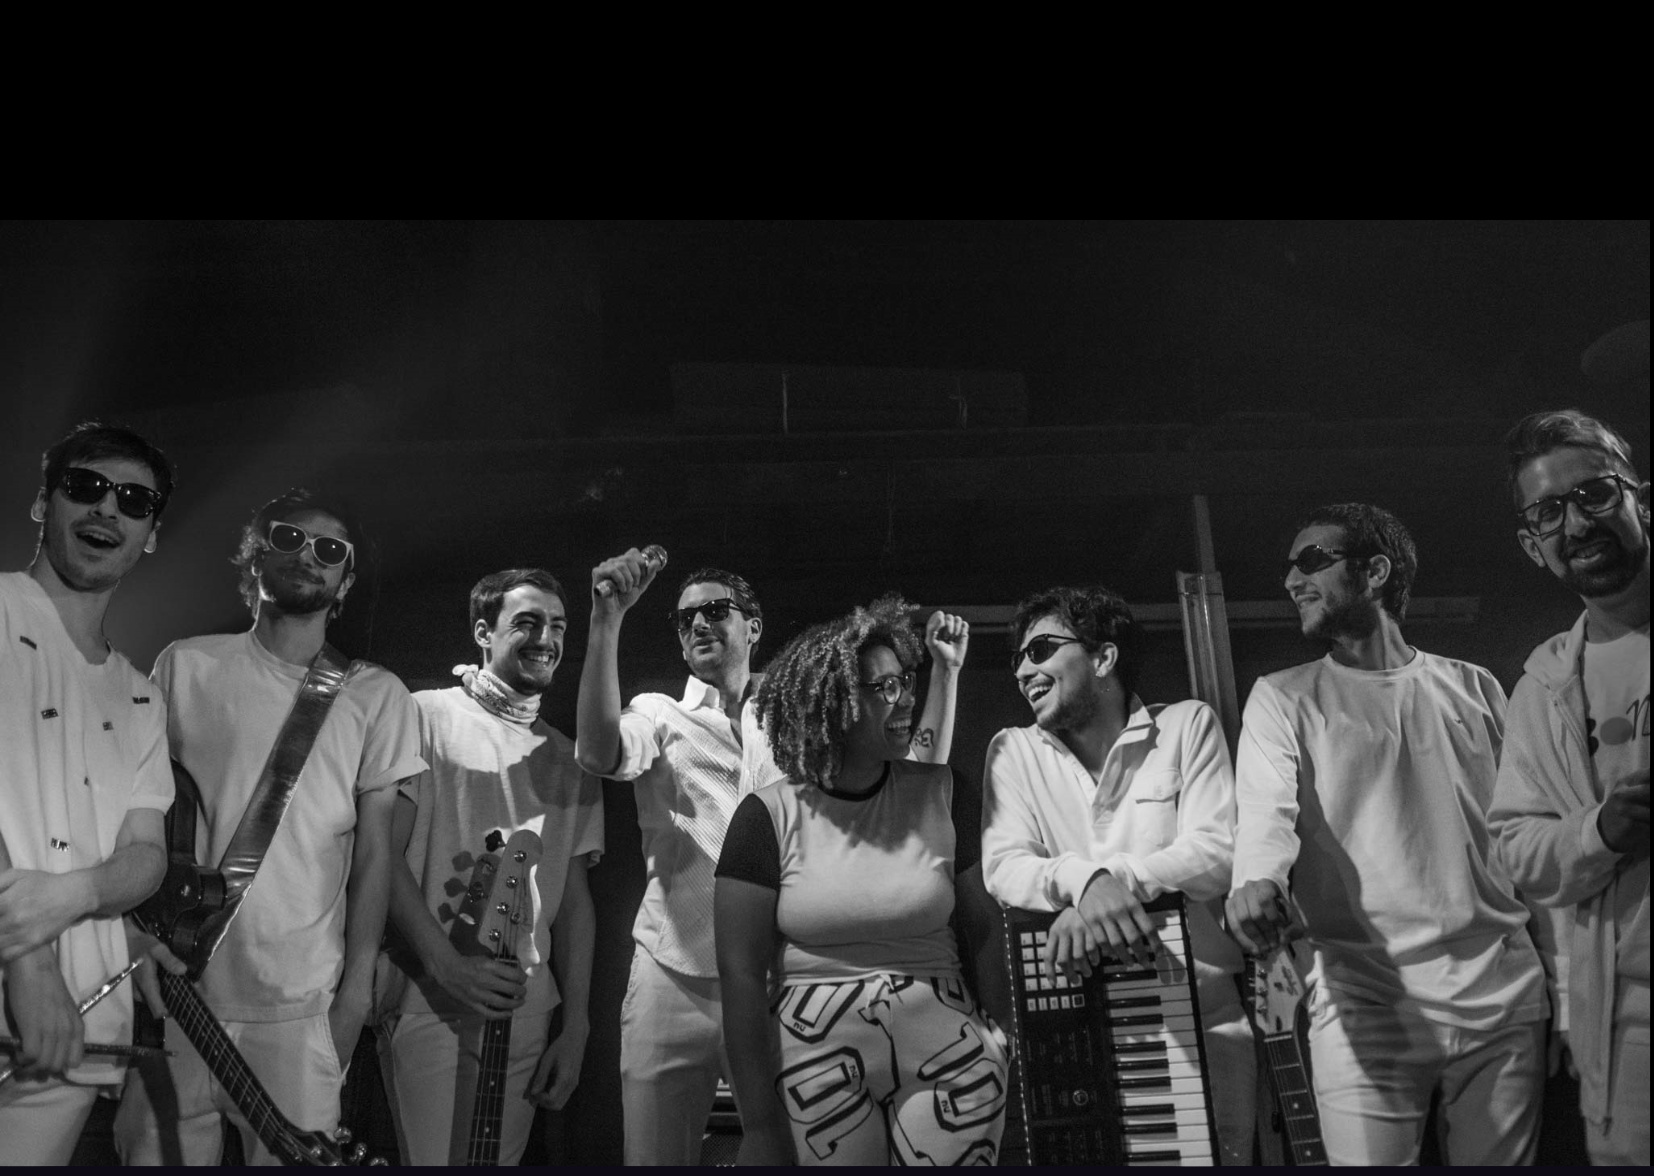
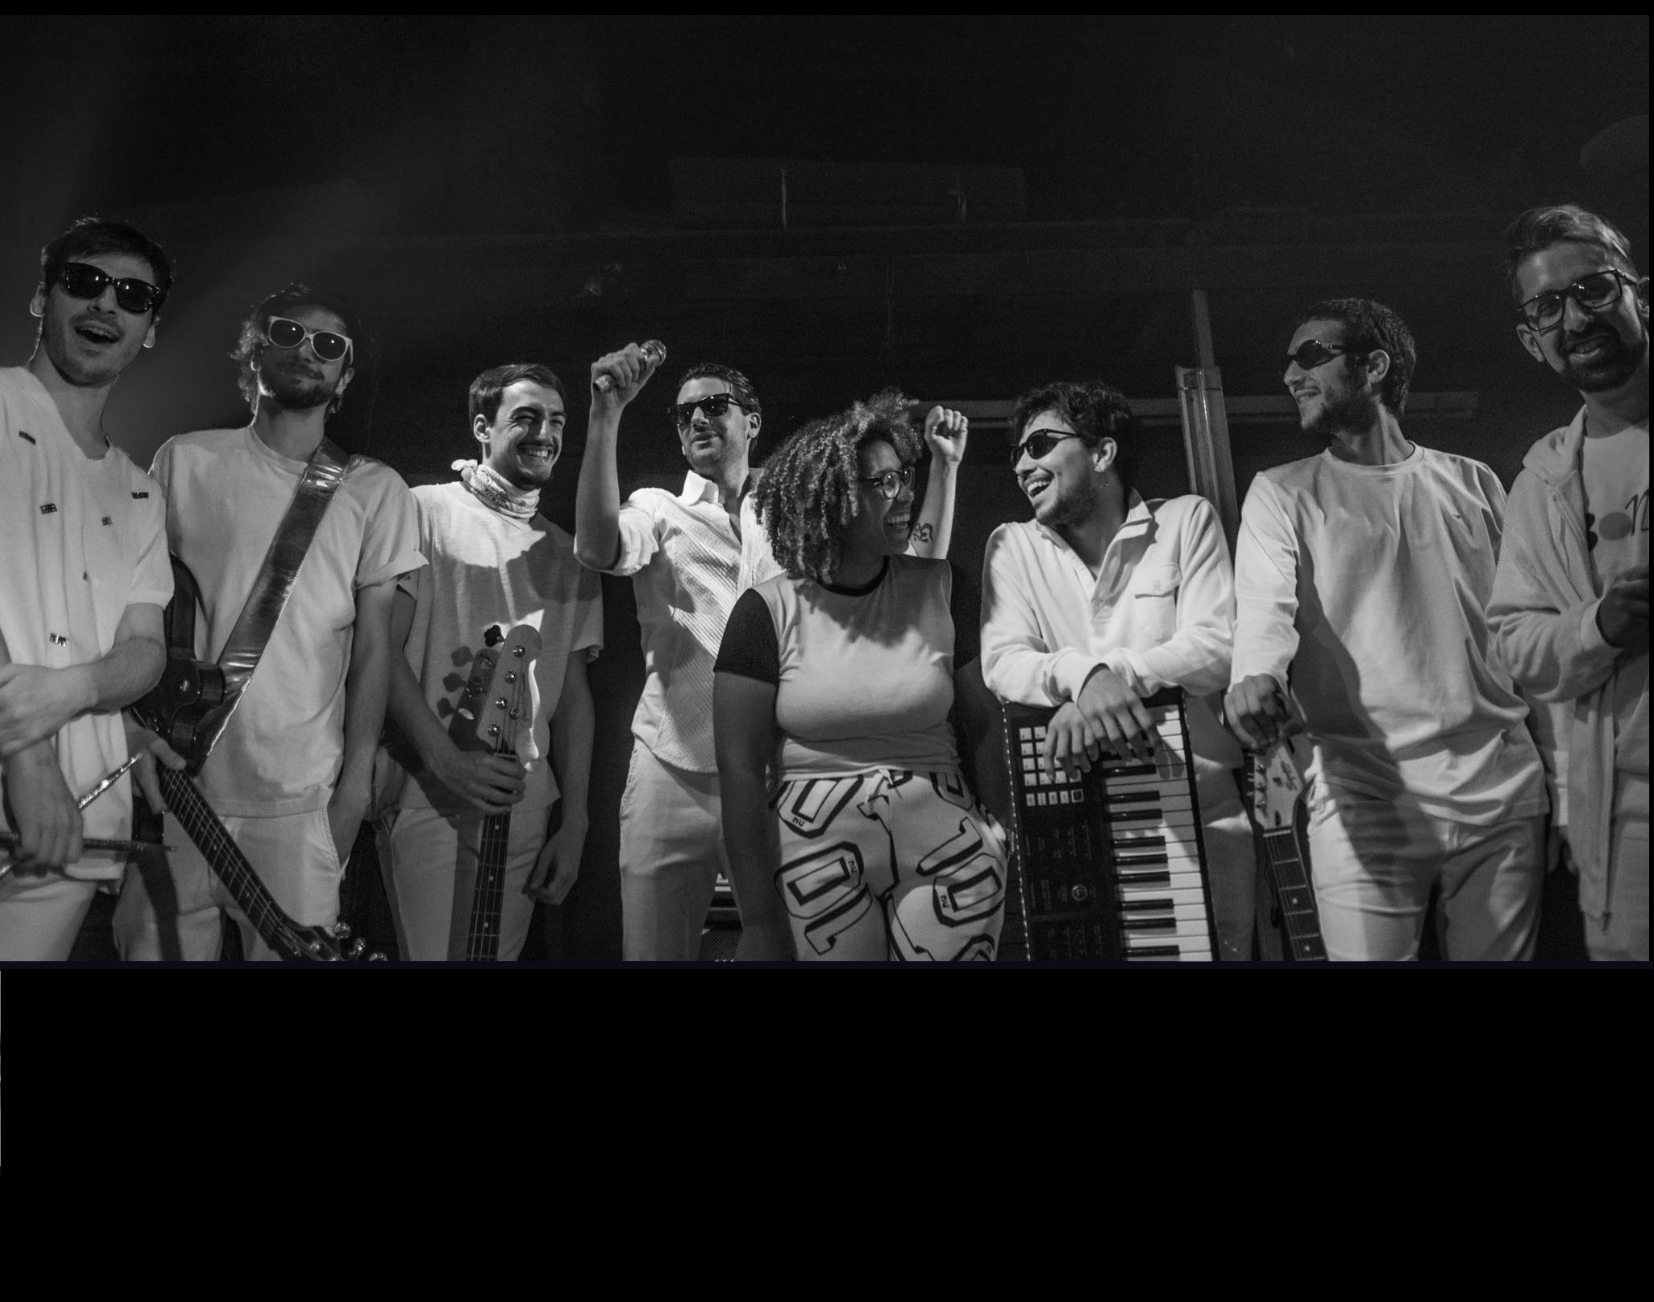
fix full band image

diff --git a/index.html b/index.html
@@ -154,18 +154,14 @@
     <!-- Services Section End -->
 
     <!-- Features Section Start -->
-    <section id="features" class="section" data-stellar-background-ratio="0.2">
+    <section id="features" class="section" data-stellar-background-ratio="0.3">
       <div class="container">
         <div class="section-header">
           <h2 class="section-title">&nbsp &nbsp &nbsp &nbsp &nbsp &nbsp &nbsp &nbsp &nbsp &nbsp &nbsp &nbsp &nbsp &nbsp &nbsp &nbsp &nbsp &nbsp &nbsp &nbsp &nbsp &nbsp &nbsp &nbsp &nbsp &nbsp &nbsp &nbsp &nbsp &nbsp &nbsp &nbsp &nbsp &nbsp &nbsp &nbsp &nbsp</h2>
           <!--<hr class="lines">-->
           <p id="fotoGrupalbox" class="section-subtitle">&nbsp &nbsp &nbsp &nbsp &nbsp &nbsp &nbsp &nbsp &nbsp &nbsp &nbsp &nbsp &nbsp &nbsp &nbsp &nbsp &nbsp &nbsp &nbsp &nbsp &nbsp &nbsp &nbsp &nbsp &nbsp &nbsp &nbsp &nbsp &nbsp &nbsp &nbsp &nbsp &nbsp &nbsp &nbsp &nbsp &nbsp &nbsp &nbsp &nbsp &nbsp &nbsp &nbsp &nbsp &nbsp &nbsp &nbsp &nbsp
               &nbsp &nbsp &nbsp &nbsp &nbsp &nbsp &nbsp &nbsp &nbsp &nbsp &nbsp &nbsp &nbsp &nbsp &nbsp &nbsp &nbsp
-              &nbsp &nbsp &nbsp &nbsp &nbsp &nbsp &nbsp &nbsp &nbsp &nbsp &nbsp &nbsp &nbsp &nbsp &nbsp &nbsp &nbsp
-              &nbsp &nbsp &nbsp &nbsp &nbsp &nbsp &nbsp &nbsp &nbsp &nbsp &nbsp &nbsp &nbsp &nbsp &nbsp &nbsp &nbsp
-              &nbsp &nbsp &nbsp &nbsp &nbsp &nbsp &nbsp &nbsp &nbsp &nbsp &nbsp &nbsp &nbsp &nbsp &nbsp &nbsp &nbsp
-              &nbsp &nbsp &nbsp &nbsp &nbsp &nbsp &nbsp &nbsp &nbsp &nbsp &nbsp &nbsp &nbsp &nbsp &nbsp &nbsp &nbsp &nbsp &nbsp &nbsp &nbsp &nbsp &nbsp &nbsp &nbsp &nbsp &nbsp &nbsp &nbsp &nbsp &nbsp &nbsp &nbsp &nbsp
-              &nbsp &nbsp &nbsp &nbsp &nbsp &nbsp &nbsp &nbsp &nbsp &nbsp &nbsp &nbsp &nbsp &nbsp &nbsp &nbsp &nbsp
+              &nbsp &nbsp &nbsp &nbsp &nbsp &nbsp &nbsp &nbsp &nbsp &nbsp &nbsp &nbsp &nbsp &nbsp &nbsp &nbsp
               &nbsp &nbsp &nbsp &nbsp &nbsp &nbsp &nbsp &nbsp &nbsp &nbsp &nbsp &nbsp &nbsp &nbsp &nbsp &nbsp &nbsp
               &nbsp &nbsp &nbsp &nbsp &nbsp &nbsp &nbsp &nbsp &nbsp &nbsp &nbsp &nbsp &nbsp &nbsp &nbsp &nbsp &nbsp
               &nbsp &nbsp &nbsp &nbsp &nbsp &nbsp &nbsp &nbsp &nbsp &nbsp &nbsp &nbsp &nbsp &nbsp &nbsp &nbsp &nbsp</p>
